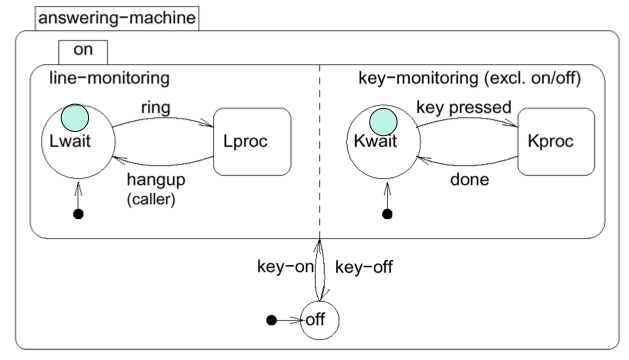
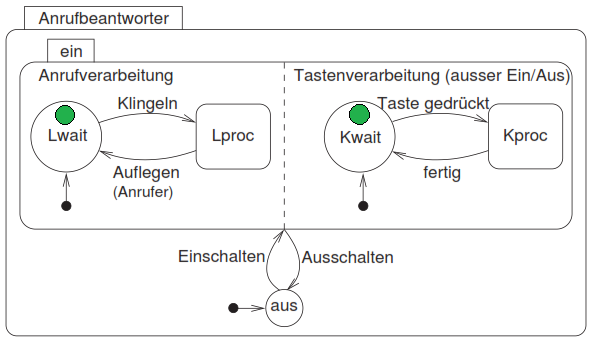
Kap. FSM überarbeitet

Changed region(s): [[0.0, 0.0, 1.0, 0.9855]]

diff --git a/sections/FSM.tex b/sections/FSM.tex
@@ -108,61 +108,50 @@ frühere Zustände\\
 Zustände bis in die unterste Hierarchie\\
 \kreis{}&Eintrittspunkt (entry point)\\
 $\otimes$&Austrittspunkt (exit point)\\
-\end{tabular}
+\end{tabular} 
 
-\includegraphics[scale = 0.3]{images/FSM/history_default_state_mechanism}  
-
-\subsubsection{Definitonen}
-\begin{itemize}
-  \item Current states of FSMs are also called \textbf{active} states.
-  \item States which are not composed of other states are called \textbf{basic
-  states}.
-  \item States containing other states are called \textbf{super-states}.
-  \item for each basic state s, the super-states containing s are called
-  \textbf{ancenstor states}.
-  \item Super-states S are called \textbf{OR-super-states}, if exactly one of
-  the sub-states of S is active whenever S is active.\\\\   
-\end{itemize}
-\includegraphics[scale = 0.3]{images/FSM/definition_statechart}
-
-\subsubsection{Modellierung von Hierarchie}
+\subsubsection{Modellierung von einfacher Hierarchie}
 \begin{itemize}
   \item Hierarchie wird mit Hilfe von Superzuständen (superstates) eingeführt.
   \item Zustände, die andere Zustände enthalten, heissen Superzustände.
   \item Zustände, die in anderen Zuständen enthalten sind, heissen Unterzustände der Superzustände.
 \end{itemize}
 \includegraphics[width = 12cm]{images/FSM/Hierarchie}\\\\
-Superzustand S beinhaltet die Zustände A, B, C, D und E. Angenommen, der Automat beﬁndet sich in Zustand Z (wird auch als aktiven Zustand beschrieben). Wenn dann die Eingabe m am Automaten erfolgt, ist A der nächste Zustand. Wenn sich der Automat in Zustand S beﬁndet und es gibt die Eingabe k, so ist Z der nächste Zustand, unabhängig davon, in welchem
-der Unterzustände A, B, C, D oder E sich der Automat tatsächlich beﬁndet.In diesem Beispiel sind alle in S enthaltenen Zustände nicht-hierarchische Zustände. Im Allgemeinen könnten die Unterzustände von S selbst wieder Superzustände sein, die weitere Unterzustände enthalten.
+Superzustand S beinhaltet die Zustände A, B, C, D und E. Angenommen, der Automat befindet sich in Zustand Z (wird auch als aktiven Zustand beschrieben). Wenn dann die Eingabe m am Automaten erfolgt, ist A der nächste Zustand. Wenn sich der Automat in Zustand S befindet und es gibt die Eingabe k, so ist Z der nächste Zustand, unabhängig davon, in welchem
+der Unterzustände A, B, C, D oder E sich der Automat tatsächlich befindet.In diesem Beispiel sind alle in S enthaltenen Zustände nicht-hierarchische Zustände. Im Allgemeinen könnten die Unterzustände von S selbst wieder Superzustände sein, die weitere Unterzustände enthalten.
 \begin{itemize}
   \item Jeder Zustand, der nicht aus anderen Zuständen besteht, heisst Basiszustand.
-  \item Superzustände S heissen ODER-Superzustände, wenn das System, das S enthält, sich zu jedem Zeitpunkt lediglich in einem einzigen Unterzustand von S beﬁnden kann, solange es sich in S beﬁndet.
+  \item Superzustände S heissen ODER-Superzustände, wenn das System, das S enthält, sich zu jedem Zeitpunkt lediglich in einem einzigen Unterzustand von S befinden kann, solange es sich in S befindet.
 \end{itemize}
-\subsubsection{History}
-\subsubsection{Parallälität (Concurrency)}
-\begin{itemize}
-  \item AND-super-states: Die FSM ist in allen sub-states einer super-state (siehe Abbildung \ref{fig:AND_super_state})
-\end{itemize}
-\begin{figure}[h]
-  \centering
-  {\includegraphics[scale = 0.4]{images/FSM/AND_super_state}  
-  \caption{AND-super-state}
-  \label{fig:AND_super_state}}
-\end{figure} 
 
-\subsubsection{Timers (nicht wait states)}
-\begin{figure}[h]
-  \centering
-  {\includegraphics[scale = 0.2]{images/FSM/timer}  
-  \caption{Using timers in an  answering machine}
-  \label{fig:timer}}
-\end{figure} 
+\subsubsection{Modellierung von Hierarchie mit Default State (Standardzustand)}
+Der Standardzustand kann in Superzuständen verwendet werden, um anzuzeigen, welche der Unterzustände
+betreten werden, wenn der Superzustand betreten wird. 
+Dies wird mit einem kleinen ausgefüllten Kreis dargestellt.\\
+\includegraphics[width = 6cm]{images/FSM/Hierarchie_DefaultState}
 
-\subsubsection{Vergleiche}
-Statecharts im "`Lehrbuch der Objektmodellierung"':
+\subsubsection{Modellierung von Hierarchie mit History}
+Mit Hilfe des History-Mechanismus ist es möglich, in den letzten Unterzustand zurückzukehren, der aktiv war, bevor der Superzustand verlassen wurde. Der History-Mechanismus wird durch den Buchstaben H in
+einem Kreis dargestellt.\\
+\begin{minipage}[hbt]{8cm}
+	\includegraphics[width=6cm]{images/FSM/Hierarchie_History}
+\end{minipage}
+\begin{minipage}[hbt]{6cm}
+	\includegraphics[width = 6cm]{images/FSM/history_default_state_mechanism}
+\end{minipage}\\\\ 
+
+\subsubsection{Parallälität (UND-Superzustände)}
+Eine Spezifikationstechnik muss auch in der Lage sein, Nebenläufigkeit und Parallelität darzustellen. Zu diesem Zweck gibt es eine zweite Art von Superzuständen, die sogenannten UND-Superzustände.
 \begin{itemize}
-  \item LE4: pp87-95
-  \item LE8: pp 197-205
-  \item LE13: pp 339-348
+\item Superzustände S heissen UND-Superzustände, wenn das System, das S enthält, sich in allen Unterzuständen von S gleichzeitig befindet,
+solange es sich in S befindet.
 \end{itemize}
+\includegraphics[width=8cm]{images/FSM/AND_super_state} 
+
+\subsubsection{Zeitbedingungen}
+Da es notwendig ist, in eingebetteten Systemen Zeitbedingungen zu modellieren, bietet Statecharts die sogenannten Timer an. Zeitbedingungen werden
+durch das gezackte Symbol dargestellt.\\Wenn das System für die im Timer angegebene Zeitdauer im Timer -Zustand war, wird ein Time-Out ausgelöst und das System verlässt diesen Zustand.
+Timer können auch hierarchisch verwendet werden.\\
+\includegraphics[width=8cm]{images/FSM/timer}   
+
 \newpage
